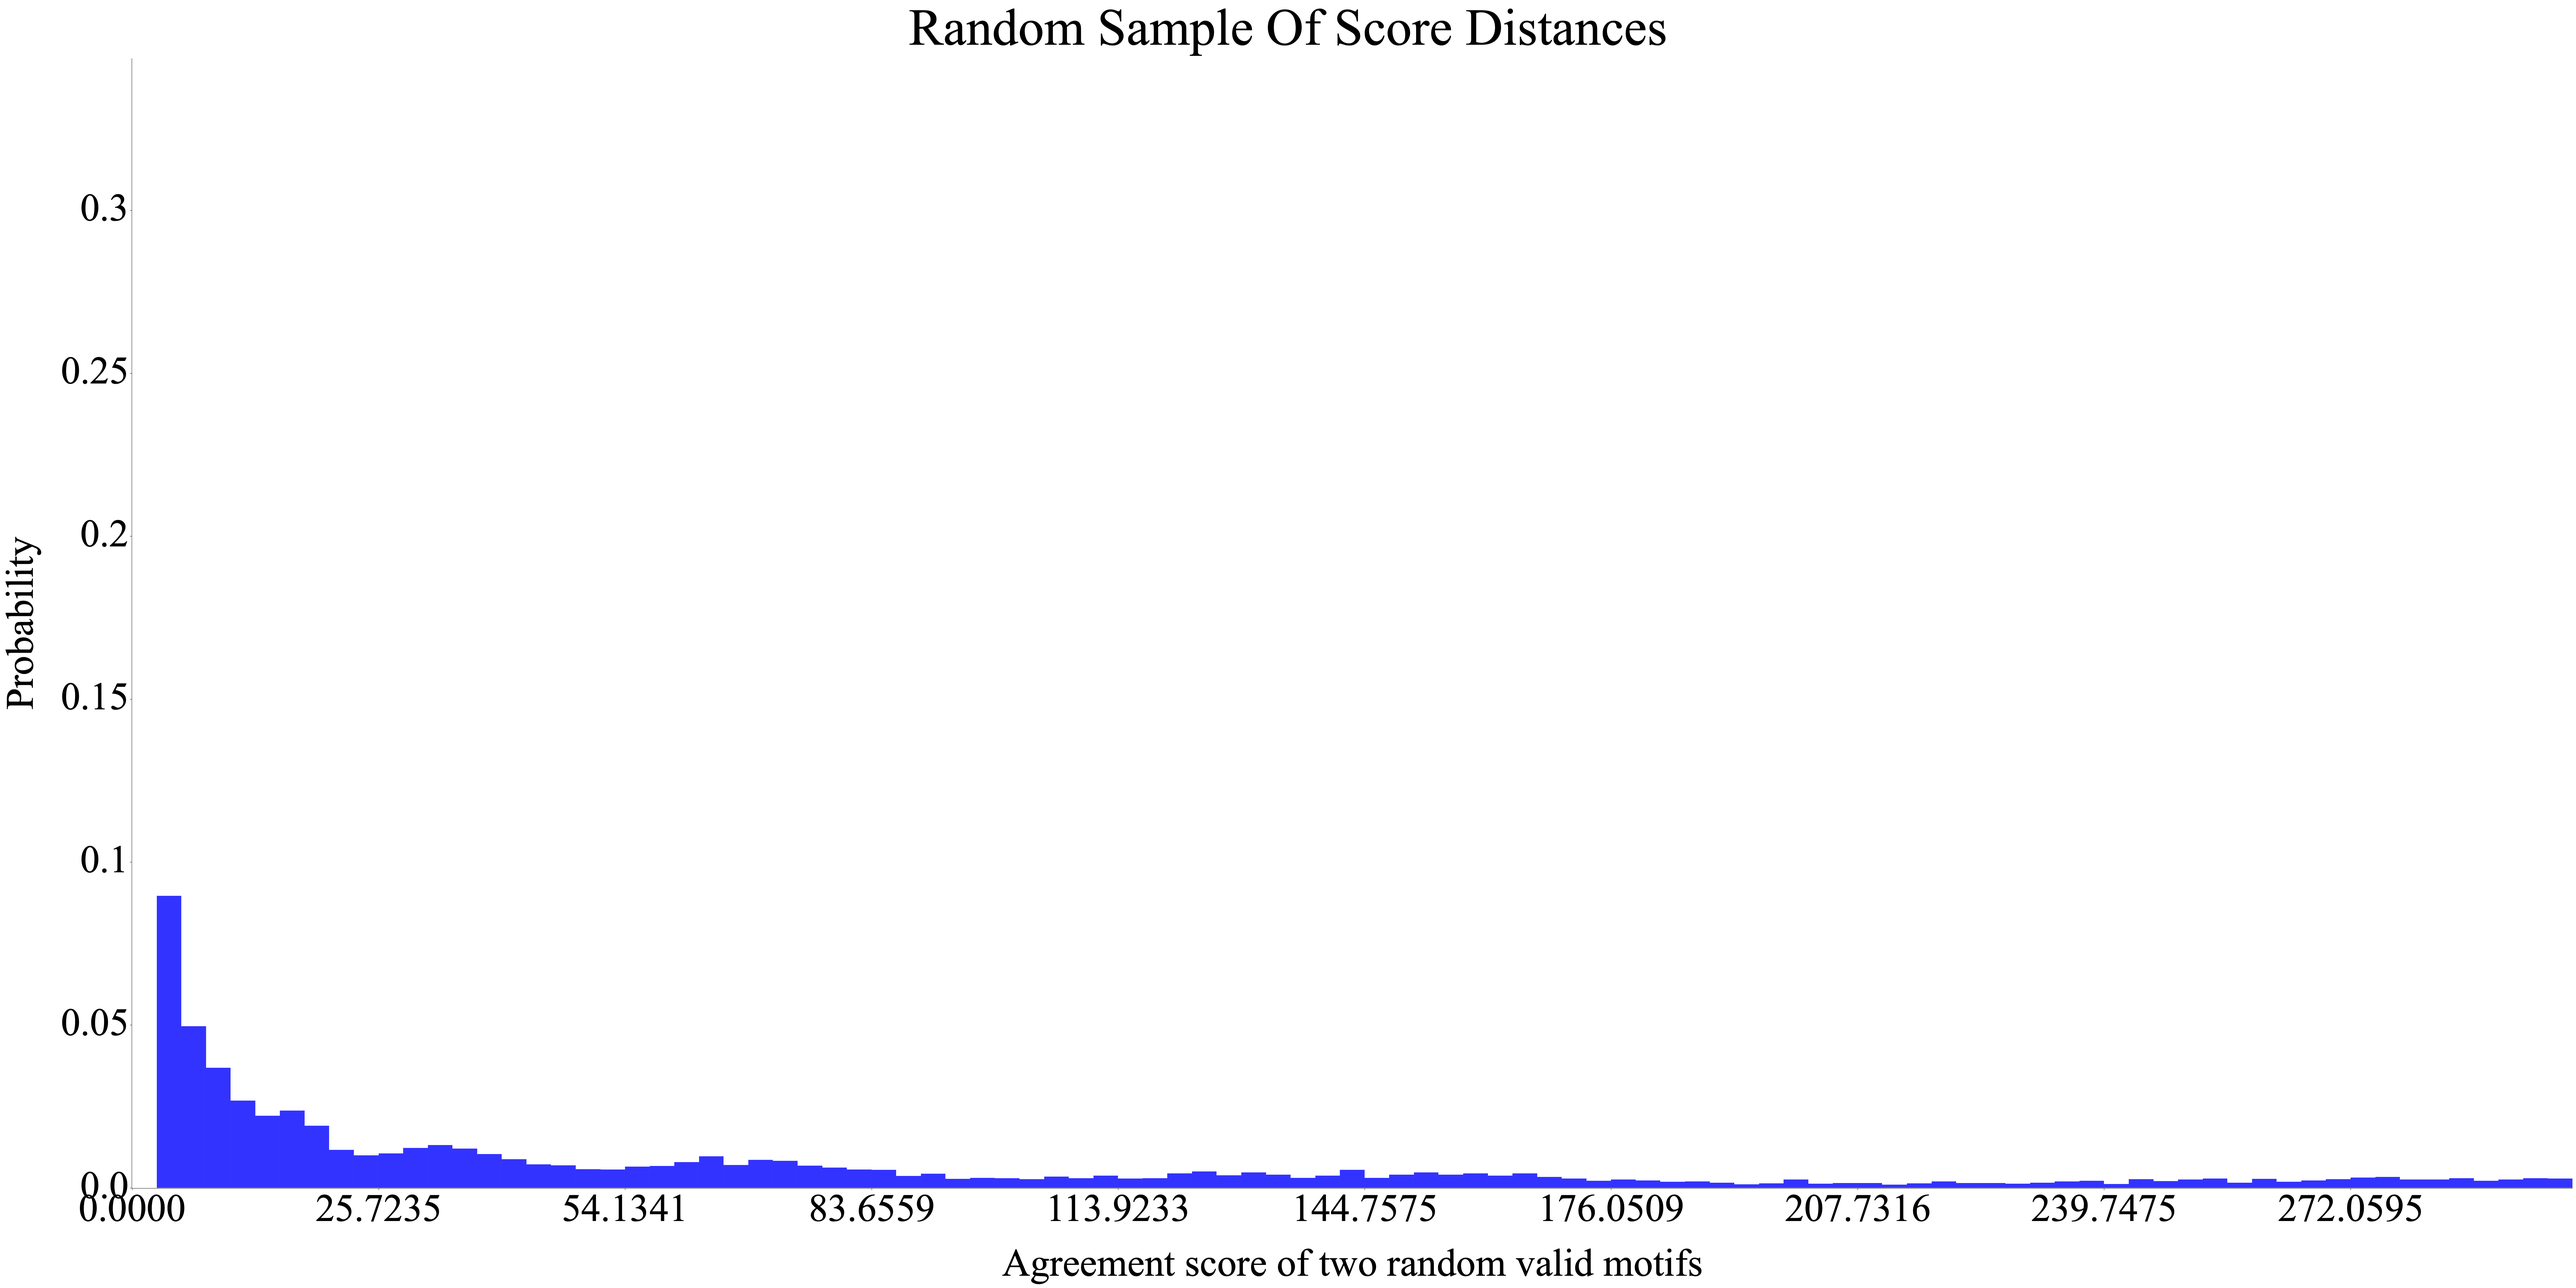
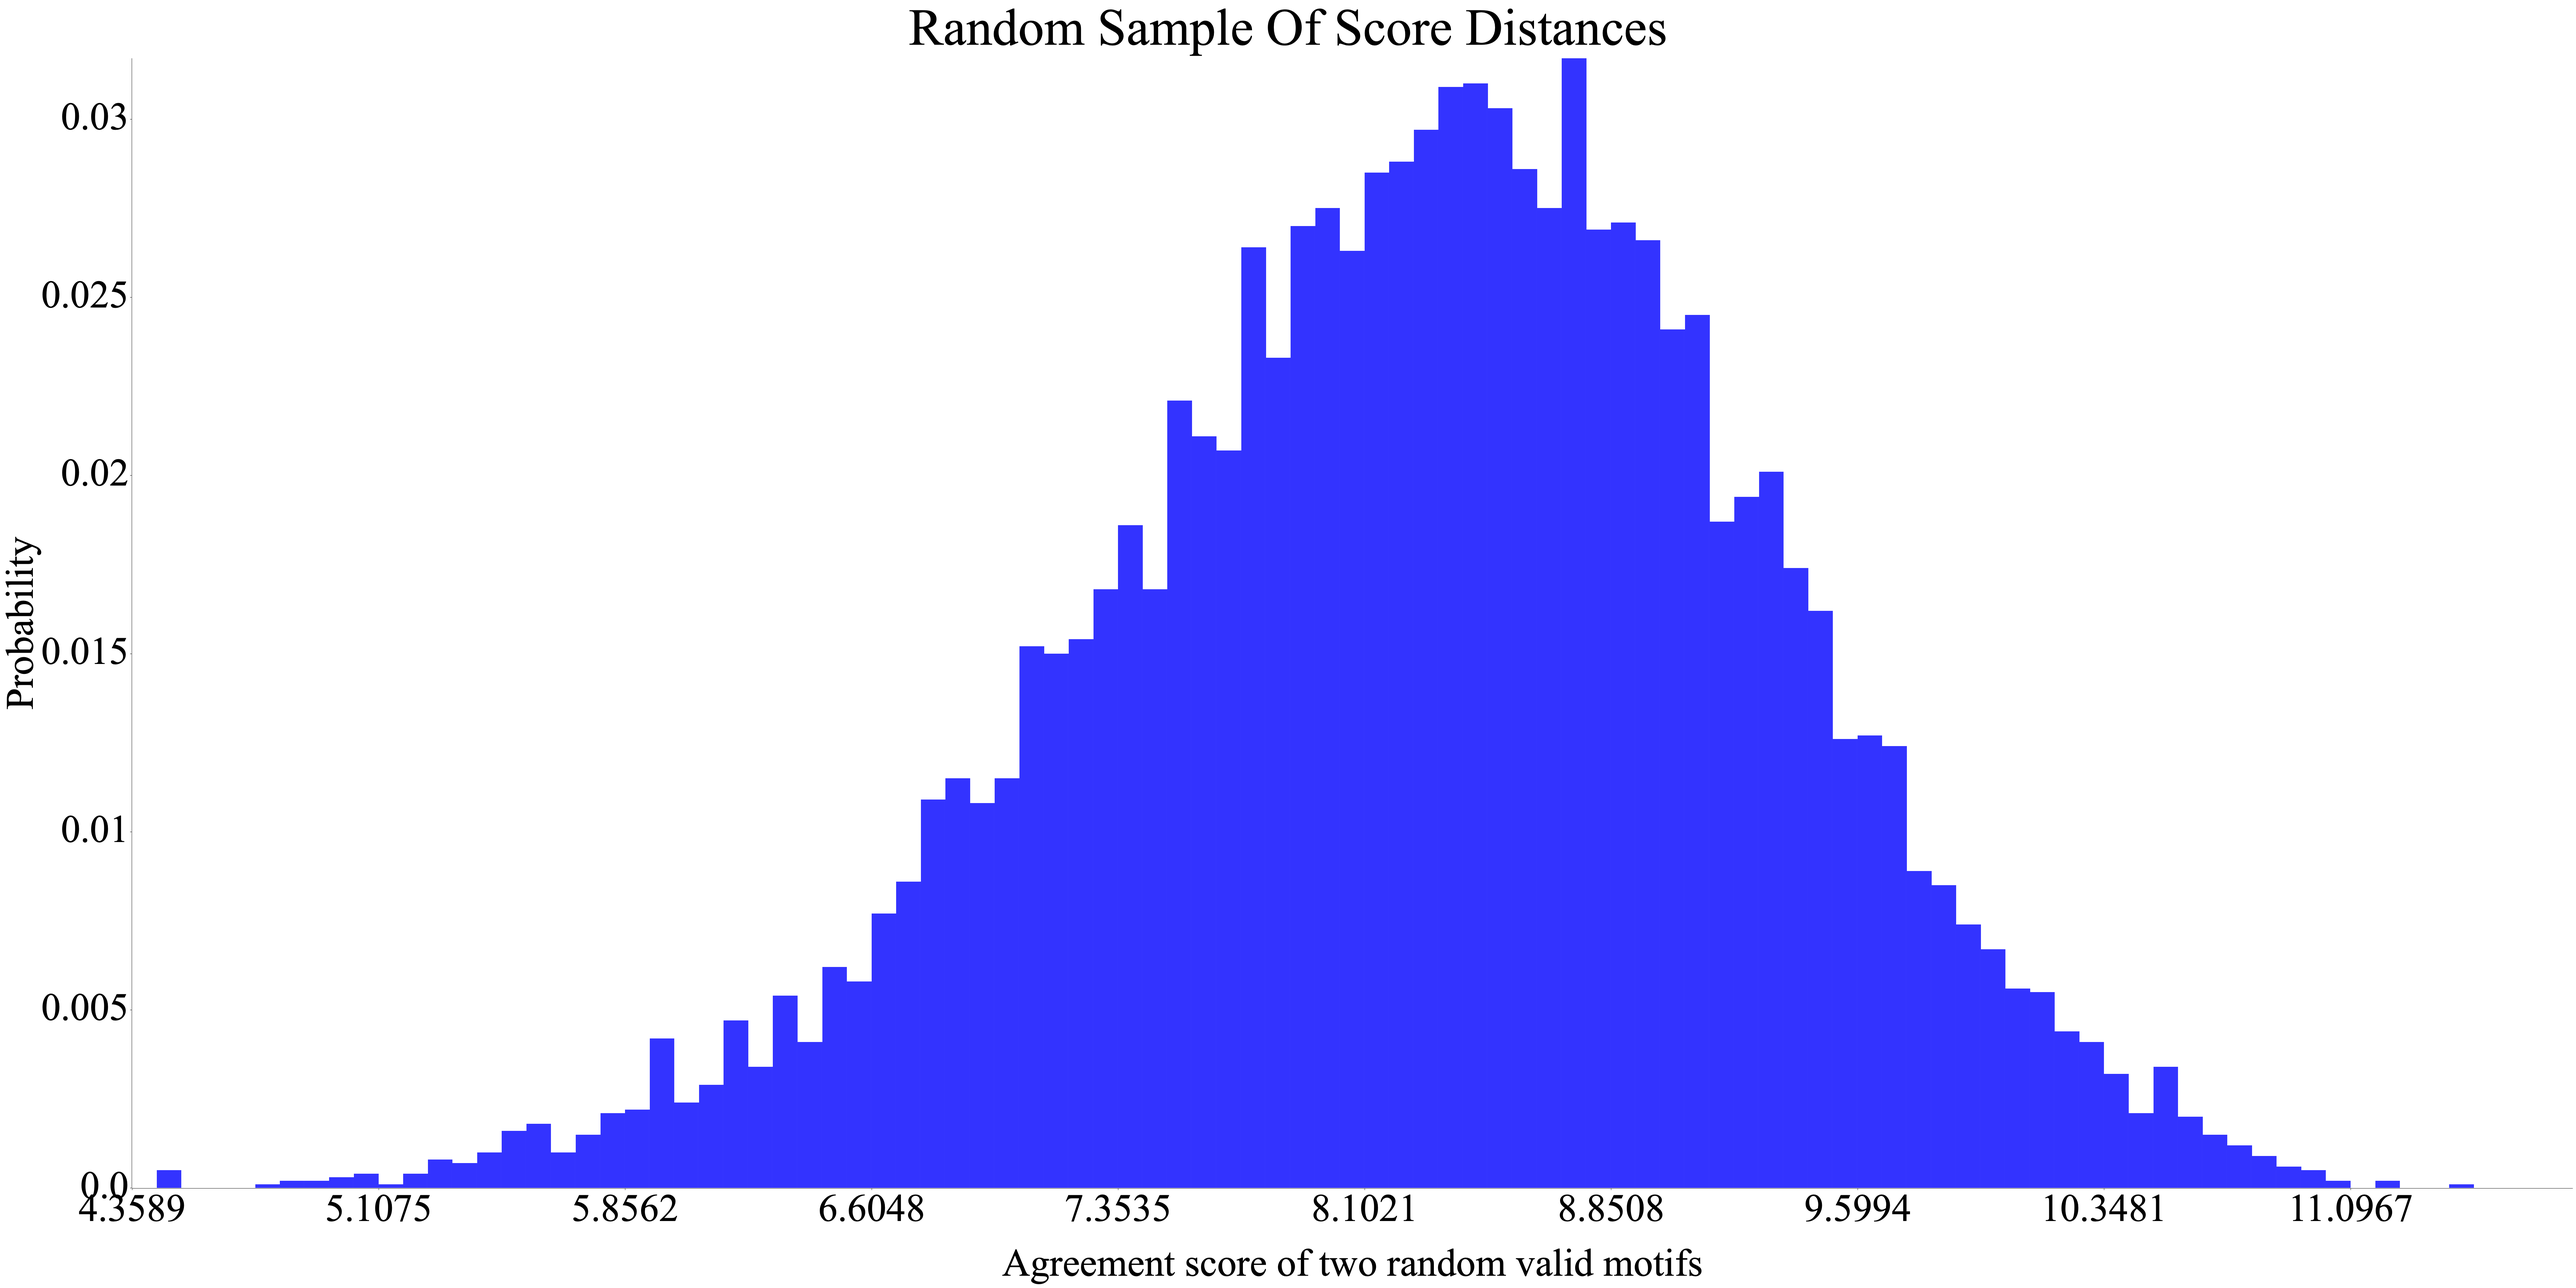
updated a bunch and syncing to Delta

Changed region(s): [[0.0312, 0.0312, 1.0, 0.9688], [0.0312, 0.625, 0.0625, 0.6875], [0.0312, 0.2188, 0.0625, 0.25]]

diff --git a/src/base.rs b/src/base.rs
@@ -1769,6 +1769,10 @@ impl Motif {
         self.pwm.iter().rev().map(|a| a.rev()).collect()
     }
 
+    pub fn rev_complement_best_motif(&self) -> String {
+        self.pwm.iter().rev().map(|a| format!("{}", a.best_base().complement())).collect::<Vec<_>>().concat()
+    }
+
     pub fn peak_height(&self) -> f64 {
         self.peak_height
     }
@@ -5386,36 +5390,36 @@ impl StrippedMotifSet {
         let self_waves: Vec<Waveform> = self.set_iter().map(|a| {let mut b = a.clone(); b.peak_height = 5.0; b.generate_waveform(&data_seq)}).collect();
         let alts_waves: Vec<Waveform> = reference_set.set_iter().map(|a| {let mut b = a.clone(); b.peak_height = 5.0; b.generate_waveform(&data_seq)}).collect();
 
-        println!("lens {} {}", self_waves.len(), alts_waves.len());
+        //println!("lens {} {}", self_waves.len(), alts_waves.len());
 
         let distance_by_index = |(i, j): (usize, usize)| OrderedFloat(self_waves[j].rmse_with_wave(&alts_waves[i]));
 
         //We want the self to act like the columns, because the positions of the reference set should be pulled
         let check_matrix = matrix::Matrix::from_fn(reference_set.num_motifs(), self.num_motifs(), distance_by_index);
 
-        println!("Made matrix");
+        //println!("Made matrix");
 
         if self.num_motifs() >= reference_set.num_motifs() {
-            println!("first");
+            //println!("first");
             let mut matches: Vec<Option<(f64, &Motif)>> = vec![None; self.num_motifs()];
             let (_, pre_matches) = kuhn_munkres::kuhn_munkres_min(&check_matrix);
             for (i, j) in pre_matches.into_iter().enumerate() {
-                println!("{i} {j}");
-                println!("{} {}", self.set.len(), reference_set.set.len());
+              //  println!("{i} {j}");
+               // println!("{} {}", self.set.len(), reference_set.set.len());
                 matches[j] = Some((check_matrix.get((i, j)).unwrap().into_inner(), reference_set.get_nth_motif(i)));
             }
             matches
             //matches.into_iter().enumerate().map(|(i,x)| Some((check_matrix.get((i,x)).unwrap().into_inner(),reference_set.get_nth_motif(x)))).collect()
         } else {
-            println!("second");
+           // println!("second");
             let transpose = check_matrix.transposed();
             let (_, pre_matches) = kuhn_munkres::kuhn_munkres_min(&transpose);
             let mut matches: Vec<Option<(f64, &Motif)>> = vec![None; self.num_motifs()];
-            println!("{:?}", pre_matches);
-            println!("{:?}", check_matrix);
+            //println!("{:?}", pre_matches);
+            //println!("{:?}", check_matrix);
             for (i, j) in pre_matches.into_iter().enumerate() {
-                println!("{i} {j}");
-                println!("{} {}", self.set.len(), reference_set.set.len());
+                //println!("{i} {j}");
+                //println!("{} {}", self.set.len(), reference_set.set.len());
                 
                 matches[i] = Some((check_matrix.get((j, i)).unwrap().into_inner(), reference_set.get_nth_motif(j)));
             }
@@ -5442,30 +5446,30 @@ impl StrippedMotifSet {
         //We want the self to act like the columns, because the positions of the reference set should be pulled
         let check_matrix = matrix::Matrix::from_fn(reference_set.num_motifs(), self.num_motifs(), distance_by_index);
 
-        println!("check matrix {:?}", check_matrix);
-        println!("Made matrix");
+        //println!("check matrix {:?}", check_matrix);
+        //println!("Made matrix");
 
         if self.num_motifs() >= reference_set.num_motifs() {
-            println!("first");
+            //println!("first");
             let mut matches: Vec<Option<(f64, &Motif)>> = vec![None; self.num_motifs()];
             let (_, pre_matches) = kuhn_munkres::kuhn_munkres_min(&check_matrix);
             for (i, j) in pre_matches.into_iter().enumerate() {
-                println!("{i} {j}");
-                println!("{} {}", self.set.len(), reference_set.set.len());
+               // println!("{i} {j}");
+               // println!("{} {}", self.set.len(), reference_set.set.len());
                 matches[j] = Some((check_matrix.get((i, j)).unwrap().into_inner(), reference_set.get_nth_motif(i)));
             }
             matches
             //matches.into_iter().enumerate().map(|(i,x)| Some((check_matrix.get((i,x)).unwrap().into_inner(),reference_set.get_nth_motif(x)))).collect()
         } else {
-            println!("second");
+          //  println!("second");
             let transpose = check_matrix.transposed();
             let (_, pre_matches) = kuhn_munkres::kuhn_munkres_min(&transpose);
             let mut matches: Vec<Option<(f64, &Motif)>> = vec![None; self.num_motifs()];
-            println!("{:?}", pre_matches);
-            println!("{:?}", check_matrix);
+            //println!("{:?}", pre_matches);
+            //println!("{:?}", check_matrix);
             for (i, j) in pre_matches.into_iter().enumerate() {
-                println!("{i} {j}");
-                println!("{} {}", self.set.len(), reference_set.set.len());
+              //  println!("{i} {j}");
+              //  println!("{} {}", self.set.len(), reference_set.set.len());
                 
                 matches[i] = Some((check_matrix.get((j, i)).unwrap().into_inner(), reference_set.get_nth_motif(j)));
             }
@@ -6055,6 +6059,29 @@ impl SetTraceDef {
     
     pub fn extract_lowest_bic_set(&self, data_ref: &AllDataUse, tail_start: usize) -> &StrippedMotifSet {
         self.trace[(self.len()-tail_start)..self.len()].iter().min_by(|a,b| a.bic(data_ref).partial_cmp(&b.bic(data_ref)).expect("No NaNs allowed in prior")).expect("trace should have at least one motif set")
+    }
+
+    fn posterior_probability_setup(&self, minimum_density_to_include: f64) -> Vec<&StrippedMotifSet> {
+
+        //const BIGGEST_TRACKABLE_POST_DIFF: f64 = -708.4; //ln(minimum postive f64), rounded DOWN. Some of these could get rounded to zero, but I care more to capture everything I can than to cut everything I can
+
+        if self.trace.len() == 0 { return vec![];}
+
+        let max_posterior_density = self.trace.iter().max_by(|x,y| x.ln_post.partial_cmp(&y.ln_post).unwrap()).expect("returned if we were empty").ln_post;
+
+        self.trace.iter().filter_map(|a| {
+
+            if a.ln_post < minimum_density_to_include {None} else {
+                Some(a)
+            }
+        }).collect()
+    }
+
+    pub fn evaluate_posterior_probability(&self, minimum_density_to_include: f64, evaluator: fn(&StrippedMotifSet) -> f64) -> f64 {
+
+        let sets_that_matter_and_posts = self.posterior_probability_setup(minimum_density_to_include);
+
+        sets_that_matter_and_posts.iter().map(|a| evaluator(a)).sum::<f64>()/(sets_that_matter_and_posts.len() as f64)
     }
 
     /// Returns a vector of `[self.trace_min_dist()]` for each `[Motif]` in `reference_mots` 

diff --git a/src/bin/cross_process.rs b/src/bin/cross_process.rs
@@ -74,6 +74,16 @@ struct Cli {
     #[arg(short, long, num_args = 2.., value_delimiter = ' ')]
     motif_set_files: Vec<String>,
 
+    /// This is the file where the Aitchison distance matrix should be output
+    /// Note that the values are tab delimited
+    #[arg(short, long)]
+    distance_matrix: String,
+
+    /// This is the file where the binding distance matrix should be output
+    /// Note that this is table delimited
+    #[arg(short, long)]
+    binding_matrix: String,
+
     /// This is an optional argument if you want to annotate your occupancy
     /// traces with gene loci and analyze go terms. This should point to a gff file
     #[arg(short, long)]
@@ -91,7 +101,7 @@ struct Cli {
 
 pub fn main() {
 
-    let Cli { comparison_file, motif_set_files, gff_file, additional_annotations_file} = Cli::parse();
+    let Cli { comparison_file, motif_set_files, distance_matrix, binding_matrix, gff_file, additional_annotations_file} = Cli::parse();
 
     let motif_set_files: Vec<(String, String)> = parse_set_names_and_files(motif_set_files).expect("file parsing went wrong");
 
@@ -126,9 +136,11 @@ pub fn main() {
     let size_of_motif = std::mem::size_of::<Motif>();
 
 
-    let assignments = motif_sets.iter().map(|a| motif_sets.iter().map(|b| a.1.pair_to_other_set(&b.1).into_iter().enumerate().map(|(i,d)|  d.map(|c| (c.0, a.1.get_nth_motif(i).best_motif_string(), c.2.best_motif_string(), ((c.2 as *const Motif).addr()-(b.1.get_nth_motif(0) as *const Motif).addr())/size_of_motif))).collect::<Vec<_>>()).collect::<Vec<_>>()).collect::<Vec<_>>();
+    let assignments = motif_sets.iter().map(|a| motif_sets.iter().map(|b| a.1.pair_to_other_set(&b.1).into_iter().enumerate().map(|(i,d)|  d.map(|c| (c.0, a.1.get_nth_motif(i).best_motif_string(), if c.1 {c.2.rev_complement_best_motif() } else {c.2.best_motif_string()}, ((c.2 as *const Motif).addr()-(b.1.get_nth_motif(0) as *const Motif).addr())/size_of_motif))).collect::<Vec<_>>()).collect::<Vec<_>>()).collect::<Vec<_>>();
 
     println!("{:?}", assignments);
+
+    let mut sorted_matches: Vec<(String, usize, String,  String, usize, String, f64)> = Vec::with_capacity(assignments.len());
 
     //Now, what I have in assignments is a three nested vector. The index of the
     //first layer is the index of the motif set A, the index of the second layer 
@@ -143,7 +155,48 @@ pub fn main() {
     let mot_rows: Vec<String> = motif_sets.iter().map(|set| set.1.set_iter().map(|a| a.best_motif_string())).flatten().collect();
 
     let header: Vec<String> = motif_sets.iter().map(|s| format!("{0: <30}", s.0)).collect();
-    println!("Motif getting matched\t(sequence)            \t{}", header.join("\t\t"));
+
+    let mut assignment_file = std::fs::File::create(&distance_matrix).unwrap();
+    let _ = assignment_file.write(format!("Motif getting matched\t(sequence)            \t{}\n", header.join("\t\t")).as_bytes());
+
+    for (which_set, set_assignment) in assignments.iter().enumerate() {
+
+        let num_motifs = motif_sets[which_set].1.num_motifs();
+        
+        let set_name = motif_sets[which_set].0.clone();
+        
+        for i in 0..num_motifs {
+            let best_motif = motif_sets[which_set].1.get_nth_motif(i).best_motif_string();
+            let match_list: Vec<String> = set_assignment.iter().enumerate().map(|(j, compared_set)| {
+                if let Some(matcher) = &compared_set[i] {
+                    if which_set < j && matcher.0 != 0.0{
+                    let mut alter_name = matcher.2.clone();
+                    alter_name = alter_name.split_whitespace().collect::<Vec<_>>().join(" ");
+                    sorted_matches.push((set_name.clone(), i, best_motif.clone(), header[j].clone(), matcher.3, alter_name, matcher.0));
+                    }
+                    format!("{}: {} ({:.02})", matcher.3, matcher.2, matcher.0)
+                } else { "None".to_owned()}
+            }).collect();
+            let _ = assignment_file.write(format!("{set_name} Motif {i}\t({best_motif})\t{}\n", match_list.join("\t\t")).as_bytes()); //Insert the matching motifs here
+           
+        }
+
+    }
+
+    sorted_matches.sort_unstable_by(|a,b| a.6.partial_cmp(&b.6).unwrap());
+
+    
+    let filtered_matches = sorted_matches.iter().filter_map(|a| if a.6 < 6.25 {Some(format!("{:?}", a))} else {None}).collect::<Vec<_>>().join("\n");
+
+    println!("{}", filtered_matches);
+/*
+
+    let assignments = motif_sets.iter().map(|a| motif_sets.iter().map(|b| a.1.pair_to_other_set_binding(&b.1, &data_ref).into_iter().enumerate().map(|(i,d)| d.map(|c| (c.0, a.1.get_nth_motif(i).best_motif_string(), c.1.best_motif_string(), ((c.1 as *const Motif).addr()-(b.1.get_nth_motif(0) as *const Motif).addr())/size_of_motif))).collect::<Vec<_>>()).collect::<Vec<_>>()).collect::<Vec<_>>();
+
+    println!("{:?}", assignments);
+    
+    let mut assignment_file = std::fs::File::create(&binding_matrix).unwrap();
+    let _ = assignment_file.write(format!("Motif getting matched\t(sequence)            \t{}\n", header.join("\t\t")).as_bytes());
 
     for (which_set, set_assignment) in assignments.iter().enumerate() {
 
@@ -156,15 +209,13 @@ pub fn main() {
             let match_list: Vec<String> = set_assignment.iter().map(|compared_set| {
                 if let Some(matcher) = &compared_set[i] { format!("{}: {} ({:.02})", matcher.3, matcher.2, matcher.0)} else { "None".to_owned()}
             }).collect();
-            println!("{set_name} Motif {i}\t({best_motif})\t{}", match_list.join("\t\t")); //Insert the matching motifs here
+            let _ = assignment_file.write(format!("{set_name} Motif {i}\t({best_motif})\t{}\n", match_list.join("\t\t")).as_bytes()); //Insert the matching motifs here
         }
 
-    }
+    }*/
 
 
-    let assignments = motif_sets.iter().map(|a| motif_sets.iter().map(|b| a.1.pair_to_other_set_rmse_data(&b.1, &data_ref).into_iter().enumerate().map(|(i,d)| d.map(|c| (c.0, a.1.get_nth_motif(i).best_motif_string(), c.1.best_motif_string(), ((c.1 as *const Motif).addr()-(b.1.get_nth_motif(0) as *const Motif).addr())/size_of_motif))).collect::<Vec<_>>()).collect::<Vec<_>>()).collect::<Vec<_>>();
 
-    println!("{:?}", assignments);
 }
 
 

diff --git a/src/bin/random_hist_comp.rs b/src/bin/random_hist_comp.rs
@@ -55,7 +55,7 @@ fn main() {
         let mot_0 = Motif::rand_mot(data.data().seq(), data.height_dist(), &mut rng);
         let mot_1 = Motif::rand_mot(data.data().seq(), data.height_dist(), &mut rng);
 
-        mot_0.dist_by_binding(&mot_1, data.data().seq())
+        mot_0.distance_function(&mot_1).0
 
     }).collect();
 
@@ -130,11 +130,13 @@ fn build_hist_bins_local(mut data: Vec<f64>, num_bins: usize) -> (Vec<f64>, Vec<
     let min = big_data[0];
     let max = *big_data.last().unwrap();
 
-    let step = (max/min).powf(1.0/(num_bins as f64));
+    println!("min {min} max {max}");
+
+    let step = (max-min)*(1.0/(num_bins as f64));
 
     let add_into = 1./length;
 
-    let xs = (0..num_bins).map(|i| (min*(i as f64).powf(step))).collect::<Vec<_>>();
+    let xs = (0..num_bins).map(|i| (min+(i as f64)*(step))).collect::<Vec<_>>();
 
 
     let mut bins: Vec<(f64, f64)> = xs.iter().clone().map(|&x| (x, 0.0)).collect();
@@ -153,6 +155,7 @@ fn build_hist_bins_local(mut data: Vec<f64>, num_bins: usize) -> (Vec<f64>, Vec<
         //bins[j].1 *= mul_into;
     }
 
+    println!("xs {:?} bins {:?} densities {:?}", xs, bins, bins.iter().map(|a| a.1).collect::<Vec<_>>());
     (xs, bins)
 
 }
